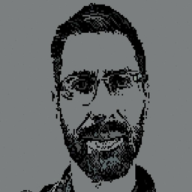
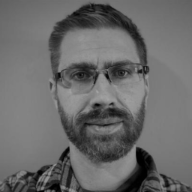
playing with sharing options

diff --git a/bcard.html b/bcard.html
@@ -15,10 +15,10 @@
           
           <div class="col-md-7">
               
-              <div class="card p-3 py-4 border border-primary">
+              <div class="card p-3 py-4 border border-primary mt-3">
                   
                   <div class="text-center">
-                      <img src="https://raw.githubusercontent.com/Jonathan-84/Jonathan-84.github.io/master/assets/img/My-img8bit-com-Effect%20(2).0ca0bbe1.jpg" width="100" class="rounded-circle">
+                      <img src="./assets/img/blackwhiteME.jpeg" width="100" class="rounded-circle">
                   </div>
                   
                   <div class="text-center mt-3">
@@ -36,22 +36,45 @@
                       </div>
 
                        <ul class="social-list">
-                         <i class="fa-brands fa-github"></i>
-                          <i class="fa fa-linkedin"></i>
+                        <i class="fa-brands fa-github fa-lg" onclick="window.location.href='https://github.com/Jonathan-84'"></i> &nbsp;&nbsp;
+                          <i class="fa fa-linkedin fa-lg" onclick="window.location.href='https://www.linkedin.com/in/jrob84/'"></i>
                       </ul>
 
                       <div class="buttons">
                      <!--    https://jonathan-84.github.io/#prologue-->
                         <!-- <i class="fa-solid fa-briefcase"></i> -->
                           <button class="btn btn-outline-primary bi bi-briefcase" onclick="window.location.href='https://jonathan-84.github.io/'"> Portfolio</button>
-                          <span><a href ="mailto:jonathan.robinson@outlook.com?subject = Feedback&body = Message"> <button class="btn btn-primary px-4 ms-3">Contact</button></span>
+                            <a class="btn btn-primary px-4 ms-3" href ="mailto:jonathan.robinson@outlook.com?subject = Feedback&body = Message">Contact</a>
                       </div>
                       
                       
                   </div>
                   
-                 
-                  
+                  <div class="text-center">
+                    <div class="container">
+                      <div class="row mt-3">
+                    <div class="col">
+                      <!-- <div class="col mt-3 ml-2"> -->
+                        <p class='text-right'>Someone you think that I should meet? They can scan this for my portfolio. </p>
+                      <!-- </div> -->
+                    </div>
+                  <div class="col">
+                    <img src="./assets/img/portfolioQR.png" width="100" class="float-left" >
+                  <!-- </div> -->
+                  <!-- </div> -->
+                </div>
+              </div>
+
+              <a href="sms:body=Send%2520this%252C%2520I%2527d%2520link%2520to%2520a%2520friend">TextAFriend!</a>
+                  <!-- Link will share via LI
+                            <a href="https://www.linkedin.com/shareArticle?url=https://jonathan-84.github.io/&title=Jonathan-84 Portfolio&summary=Jonathan-84 Portfolio&source=https://jonathan-84.github.io/">
+                LinkedIn
+            </a> 
+          <a href="https://www.facebook.com/sharer/sharer.php?u=https://jonathan-84.github.io/">
+    Facebook
+</a>
+          -->
+            
                   
               </div>
               
